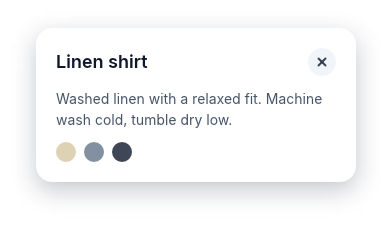
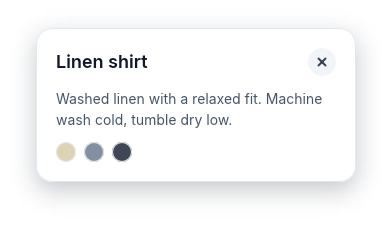
Checkout example: light and dark themes
themes.yml beside the checkout designs holds a slate palette for each
theme; every color that should change in dark names one. References
gain dark PNGs; details gains a border.

Claude-Session: https://claude.ai/code/session_01K2FZ77mfUbz7xLzrEULH3g

diff --git a/design/src/render.rs b/design/src/render.rs
@@ -1768,8 +1768,10 @@ mod examples {
         Repo(PathBuf::from(env!("CARGO_MANIFEST_DIR")).join(".."))
     }
 
-    /// Each example design, painted natively, matches its reference PNG in
-    /// `design/testdata/` within the tolerance [`matches`] applies. After a deliberate change to
+    /// Each example design, painted natively in each theme, matches its
+    /// reference PNG in `design/testdata/` — `<name>.png` in the light theme,
+    /// `<name>-dark.png` in the dark one — within the tolerance [`matches`]
+    /// applies. After a deliberate change to
     /// how designs look, `DEVPAGE_UPDATE_REFERENCES=1 cargo test` rewrites
     /// them — and the diff shows the new drawings for review.
     #[test]
@@ -1777,28 +1779,32 @@ mod examples {
         let dir = PathBuf::from(env!("CARGO_MANIFEST_DIR")).join("testdata");
         let update = std::env::var_os("DEVPAGE_UPDATE_REFERENCES").is_some();
         let mut renderer = Renderer::new();
-        for name in ["button", "checkout", "confirmation", "details"] {
-            let path = format!("docs/designs/checkout/{name}.design");
-            let scene = crate::resolve(&repo(), &path).unwrap_or_else(|p| panic!("{p:?}"));
-            let png = crate::png(&mut renderer, &scene, Theme::Light).unwrap();
-            let reference = dir.join(format!("{name}.png"));
-            if update {
-                std::fs::write(&reference, &png).unwrap();
-                continue;
-            }
-            let expected = resolve::decode(&std::fs::read(&reference).unwrap()).unwrap();
-            let painted = resolve::decode(&png).unwrap();
-            assert_eq!(
-                (painted.width, painted.height),
-                (expected.width, expected.height),
-                "{name}"
-            );
-            if let Err(d) = matches(
-                painted.data.data(),
-                expected.data.data(),
-                painted.width as usize,
-            ) {
-                panic!("{name}: {d:?}");
+        for (theme, suffix) in [(Theme::Light, ""), (Theme::Dark, "-dark")] {
+            for name in ["button", "checkout", "confirmation", "details"] {
+                let path = format!("docs/designs/checkout/{name}.design");
+                let scene = crate::resolve(&repo(), &path).unwrap_or_else(|p| panic!("{p:?}"));
+                assert!(scene.themed, "{name}");
+                let png = crate::png(&mut renderer, &scene, theme).unwrap();
+                let name = format!("{name}{suffix}");
+                let reference = dir.join(format!("{name}.png"));
+                if update {
+                    std::fs::write(&reference, &png).unwrap();
+                    continue;
+                }
+                let expected = resolve::decode(&std::fs::read(&reference).unwrap()).unwrap();
+                let painted = resolve::decode(&png).unwrap();
+                assert_eq!(
+                    (painted.width, painted.height),
+                    (expected.width, expected.height),
+                    "{name}"
+                );
+                if let Err(d) = matches(
+                    painted.data.data(),
+                    expected.data.data(),
+                    painted.width as usize,
+                ) {
+                    panic!("{name}: {d:?}");
+                }
             }
         }
     }
@@ -1832,12 +1838,12 @@ mod examples {
         let whole = paint(&repo());
         for (part, hidden) in [
             (
-                r##"<Rect name="Divider" width="fill" height={1} fill="#e2e8f0" />"##,
-                r##"<Rect name="Divider" width="fill" height={1} fill="#f8fafc" />"##,
+                r##"<Rect name="Divider" width="fill" height={1} fill={theme.border} />"##,
+                r##"<Rect name="Divider" width="fill" height={1} fill={theme.background} />"##,
             ),
             (
-                r##"viewBox="0 0 24 24" width={20} height={20} fill="#64748b""##,
-                r##"viewBox="0 0 24 24" width={20} height={20} fill="#ffffff""##,
+                r##"viewBox="0 0 24 24" width={20} height={20} fill={theme.muted}"##,
+                r##"viewBox="0 0 24 24" width={20} height={20} fill={theme.card}"##,
             ),
         ] {
             assert!(original.contains(part), "{part}");
